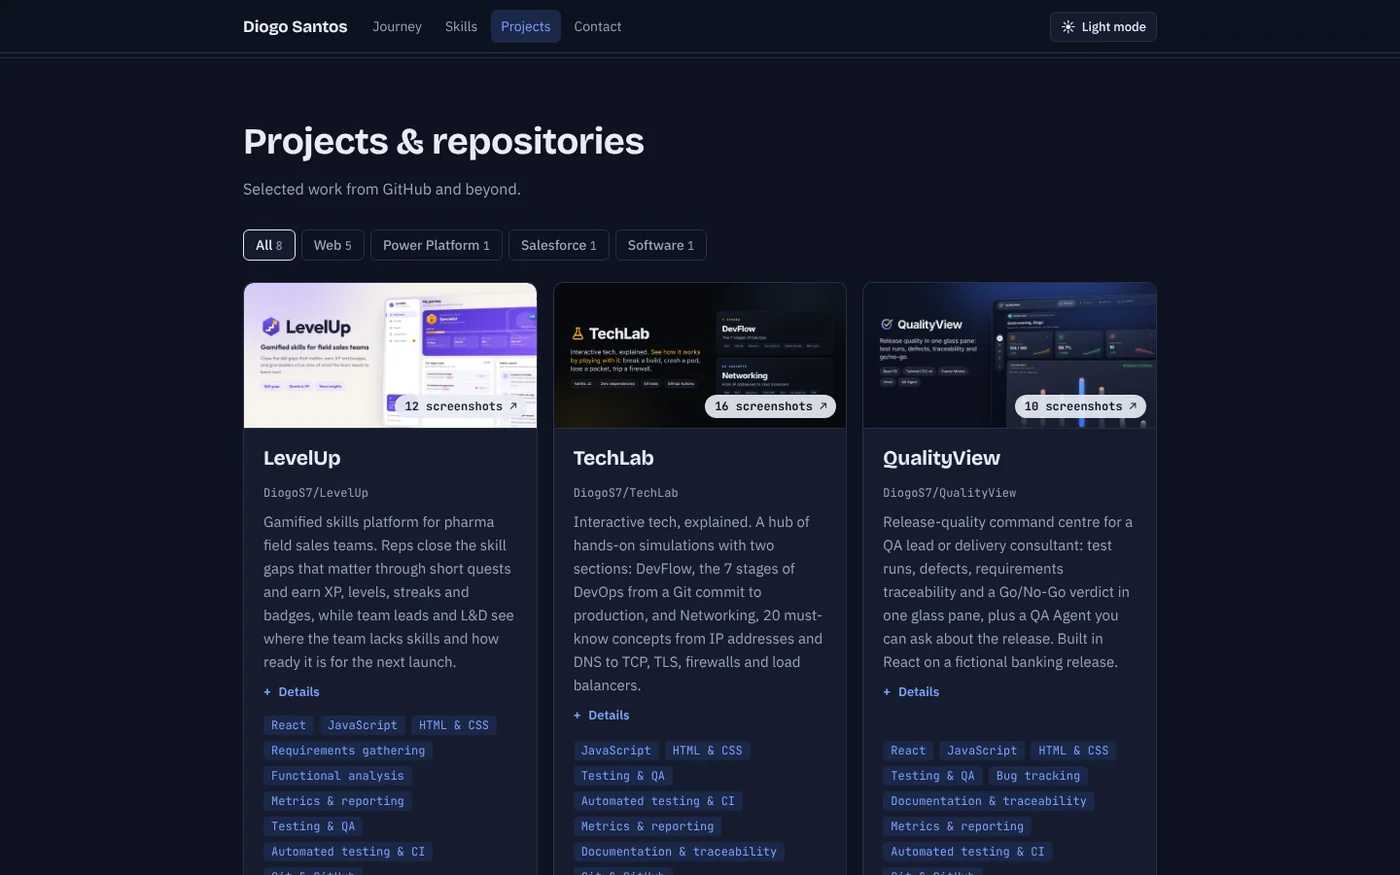
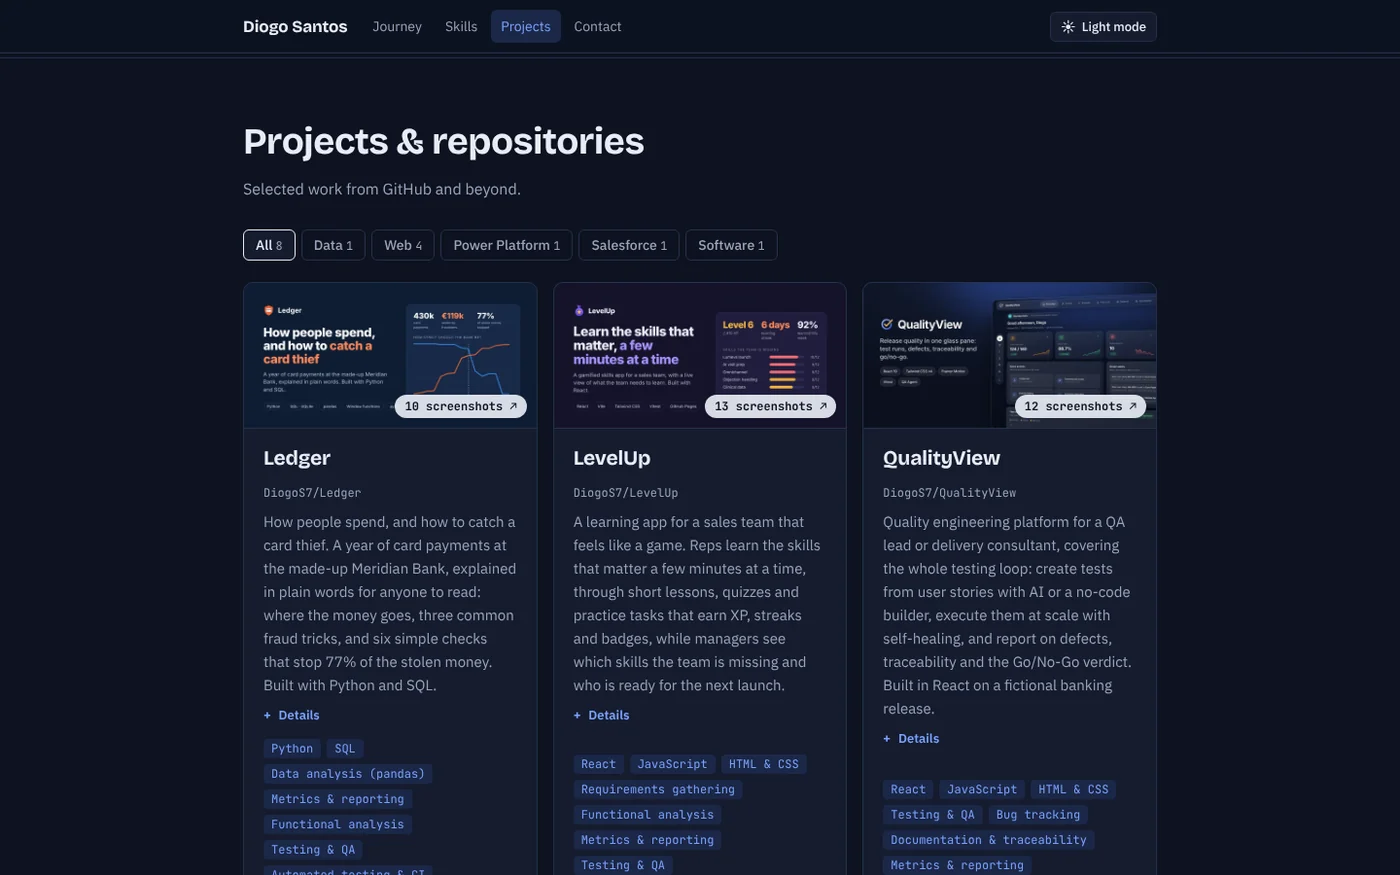
LevelUp: redesign and new screenshots; QualityView: Create and Execute views

diff --git a/assets/js/data.js b/assets/js/data.js
@@ -70,32 +70,35 @@ const CV = {
       details:["Written for everyone: plain words, real examples and a slider to try the trade-off yourself; the technical detail sits in its own section","SQLite database for Meridian Bank: 430,000 payments, 1,500 customers, with card testing, copied cards and hijacked accounts planted in it","Ten SQL queries for the spending and fraud analysis","Six fraud checks written as SQL window-function queries, scored in Python (pandas) against the payments that came back as fraud","Combined into a points system: 77% of the stolen money stopped automatically, 9 in 10 stopped payments really fraud, 94% with a human check","17 pytest tests: every check on hand-made payments, plus end-to-end checks","GitHub Actions tests, rebuilds the data and publishes the page to GitHub Pages"] },
     { name:"LevelUp", category:"Web", repo:"DiogoS7/LevelUp",
       url:"https://github.com/DiogoS7/LevelUp", demo:"https://diogos7.github.io/LevelUp/",
-      desc:"Gamified skills platform for pharma field sales teams. Reps close the skill gaps that matter through short quests and earn XP, levels, streaks and badges, while team leads and L&D see where the team lacks skills and how ready it is for the next launch.",
+      desc:"A learning app for a sales team that feels like a game. Reps learn the skills that matter a few minutes at a time, through short lessons, quizzes and practice tasks that earn XP, streaks and badges, while managers see which skills the team is missing and who is ready for the next launch.",
       skills:["React","JavaScript","HTML & CSS","Requirements gathering","Functional analysis","Metrics & reporting","Testing & QA","Automated testing & CI","Git & GitHub"],
       context:"Personal project · React · 2026",
       shots:[
-        {src:"assets/img/shots/levelup-cover.webp", caption:"LevelUp: gamified skills for field sales teams"},
-        {src:"assets/img/shots/levelup-journey.webp", caption:"My journey: level, XP, streak, the coach's suggested quest, biggest gaps and today's quests"},
-        {src:"assets/img/shots/levelup-skills.webp", caption:"My skills: a radar against the role's targets, with every skill's level and business demand"},
-        {src:"assets/img/shots/levelup-quests.webp", caption:"Quests: the quest board, ranked by what helps you most"},
-        {src:"assets/img/shots/levelup-leaderboard.webp", caption:"Leaderboard: a weekly league for people and teams that resets every Monday"},
-        {src:"assets/img/shots/levelup-team-insights.webp", caption:"Team insights: adoption, launch readiness and where to focus training"},
-        {src:"assets/img/shots/levelup-heatmap.webp", caption:"Skills heatmap: every rep against every skill, coloured by the gap to target"},
-        {src:"assets/img/shots/levelup-mobile.webp", caption:"Mobile: built for reps on the road"},
-        {src:"assets/img/shots/levelup-highlight-quiz.webp", caption:"A playable quiz that pays XP for correct answers"},
-        {src:"assets/img/shots/levelup-highlight-skill.webp", caption:"Skill detail: the level, the target and why it matters now"},
-        {src:"assets/img/shots/levelup-highlight-matrix.webp", caption:"Skills in demand vs skills lacking: the top-right corner is where training helps most"},
-        {src:"assets/img/shots/levelup-highlight-review.webp", caption:"Team lead review: approve or send back role-plays before the XP is awarded"}
+        {src:"assets/img/shots/levelup-cover.webp?v=2", caption:"LevelUp: learn the skills that matter, a few minutes at a time"},
+        {src:"assets/img/shots/levelup-home.webp?v=2", caption:"Home: one clear next step, then level, streak, rank and launch readiness"},
+        {src:"assets/img/shots/levelup-managers.webp?v=2", caption:"For managers: headlines in plain words, the numbers and which skills to train first"},
+        {src:"assets/img/shots/levelup-skills.webp?v=2", caption:"My skills: where I fall short of what my role needs, starting with what matters most"},
+        {src:"assets/img/shots/levelup-learn.webp?v=2", caption:"Learn: 5-minute lessons, 3-question quizzes and short practice tasks"},
+        {src:"assets/img/shots/levelup-quiz.webp?v=2", caption:"A quiz that pays XP for correct answers"},
+        {src:"assets/img/shots/levelup-skill.webp?v=2", caption:"One skill up close: my level, what my role needs and why it matters now"},
+        {src:"assets/img/shots/levelup-leaderboard.webp?v=2", caption:"Leaderboard: everyone starts at zero on Monday, and teams are ranked per person"},
+        {src:"assets/img/shots/levelup-welcome.webp?v=2", caption:"Welcome guide: a short tour on the first visit"},
+        {src:"assets/img/shots/levelup-train-first.webp?v=2", caption:"Which skills to train first: how many people lack each skill against how much the company needs it"},
+        {src:"assets/img/shots/levelup-heatmap.webp?v=2", caption:"Everyone's skills at a glance, with a spreadsheet download"},
+        {src:"assets/img/shots/levelup-dark.webp?v=2", caption:"Dark theme"},
+        {src:"assets/img/shots/levelup-phone.webp?v=2", caption:"Phone: built for reps on the road"}
       ],
-      details:["Fictional field force for Solenne Biosciences in Portugal, preparing for the launch of a new medicine","11 skills in 5 areas, each with a target per role and a business demand level; a coach suggests the next quest from the biggest gaps","Five quest types, including playable quizzes and role-plays reviewed by the team lead before XP is awarded","XP, levels, daily streaks, badges, a weekly league and a shared team challenge, designed to stay fair: only learning earns XP","Team leads and L&D get adoption KPIs, a demand vs gap matrix, launch readiness and a skills heatmap with CSV export","Every game rule is a pure function covered by Vitest unit tests; React 19, Tailwind CSS v4 and Framer Motion on Vite","GitHub Actions tests, builds and deploys to GitHub Pages"] },
+      details:["Made-up field sales team at Solenne Biosciences in Portugal, getting ready to launch a new (also made-up) medicine, Lumeva","Every skill has a level from 0 to 5 and each role needs a certain level; LevelUp shows each person their gaps, starting with what the company needs most","Quests: a 5-minute lesson, a 3-question quiz or a short practice task, each earning XP and keeping a daily streak going","Made fair: points come only from learning, quizzes pay for correct answers and practice tasks need a team lead's OK","For managers: headlines in plain words, which skills to train first, who is ready for the launch, who needs a nudge, and a spreadsheet download","Every rule is a pure function covered by Vitest unit tests; React 19, Tailwind CSS v4 and Framer Motion on Vite","Light and dark themes; GitHub Actions tests, builds and deploys to GitHub Pages"] },
 { name:"QualityView", category:"Web", repo:"DiogoS7/QualityView",
       url:"https://github.com/DiogoS7/QualityView", demo:"https://diogos7.github.io/QualityView/",
-      desc:"Release-quality command centre for a QA lead or delivery consultant: test runs, defects, requirements traceability and a Go/No-Go verdict in one glass pane, plus a QA Agent you can ask about the release. Built in React on a fictional banking release.",
+      desc:"Quality engineering platform for a QA lead or delivery consultant, covering the whole testing loop: create tests from user stories with AI or a no-code builder, execute them at scale with self-healing, and report on defects, traceability and the Go/No-Go verdict. Built in React on a fictional banking release.",
       skills:["React","JavaScript","HTML & CSS","Testing & QA","Bug tracking","Documentation & traceability","Metrics & reporting","Automated testing & CI","Git & GitHub"],
       context:"Personal project · React · 2026",
       shots:[
         {src:"assets/img/shots/qualityview-cover.webp?v=9", caption:"QualityView: release quality in one glass pane"},
         {src:"assets/img/shots/qualityview-overview.webp?v=9", caption:"Overview: progress cards, daily test execution, today's QA agenda, open defects and the Go/No-Go verdict in one view"},
+        {src:"assets/img/shots/qualityview-create.webp", caption:"Create: tests from user stories, with AI or a no-code builder"},
+        {src:"assets/img/shots/qualityview-execute.webp", caption:"Execute: at scale across remote devices, with self-healing and schedules"},
         {src:"assets/img/shots/qualityview-runs.webp?v=9", caption:"Test runs: every test case and its latest result, filtered by result or suite"},
         {src:"assets/img/shots/qualityview-defects.webp?v=9", caption:"Defects: search and filter by severity or status, then open a defect to see its owner and requirement"},
         {src:"assets/img/shots/qualityview-traceability.webp?v=9", caption:"Traceability: a live requirements traceability matrix, with a gaps-only switch"},
@@ -156,9 +159,9 @@ const CV = {
         {src:"assets/img/shots/cv-journey.webp?v=20261101-2", caption:"Journey: the rocket reaches Jupiter, my current role as a QA consultant"},
         {src:"assets/img/shots/cv-journey-next.webp?v=20261101-2", caption:"Journey: Saturn, the next mission"},
         {src:"assets/img/shots/cv-skills.webp?v=20261104-2", caption:"Skills filtered to Python, highlighting matching work"},
-        {src:"assets/img/shots/cv-projects.webp?v=20261105-2", caption:"Project cards with hover slideshows"},
+        {src:"assets/img/shots/cv-projects.webp?v=20261111-2", caption:"Project cards with hover slideshows"},
         {src:"assets/img/shots/cv-gallery.webp?v=20261104-2", caption:"Screenshot gallery with arrows, thumbnails and swipe"},
-        {src:"assets/img/shots/cv-projects-dark.webp?v=20261105-2", caption:"Dark theme"},
+        {src:"assets/img/shots/cv-projects-dark.webp?v=20261111-2", caption:"Dark theme"},
         {src:"assets/img/shots/cv-phone-journey.webp?v=20261101-2", caption:"Phone layout with the flight pinned to the top"},
       ],
       details:["Canvas animation of a rocket flying from Mercury to interstellar space as you scroll","Skill filters dim projects and milestones that don't use the skill","Screenshot galleries with keyboard and swipe support","Light and dark themes; works from phone to desktop; no frameworks or build step"] },

diff --git a/index.html b/index.html
@@ -106,7 +106,7 @@
   </div>
 </div>
 <footer><div class="wrap">© 2026 Diogo Santos · Business analyst &amp; QA consultant · Lisbon, Portugal</div></footer>
-<script src="assets/js/data.js?v=20261111-1"></script>
+<script src="assets/js/data.js?v=20261111-2"></script>
 <script src="assets/js/app.js?v=20261101-5"></script>
 </body>
 </html>
